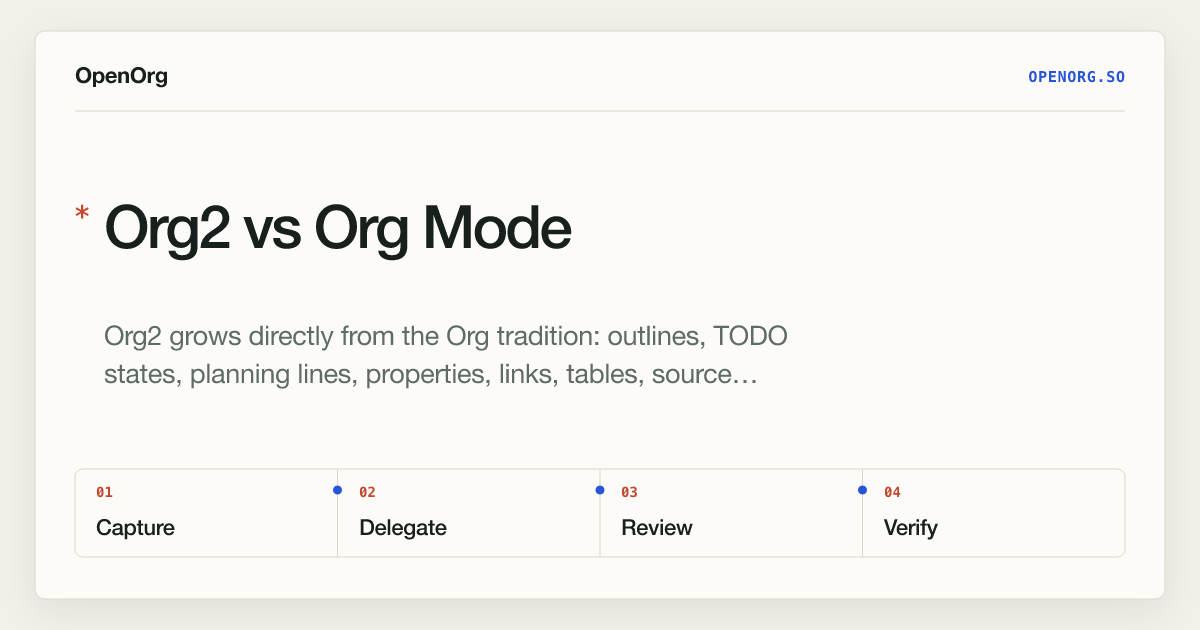
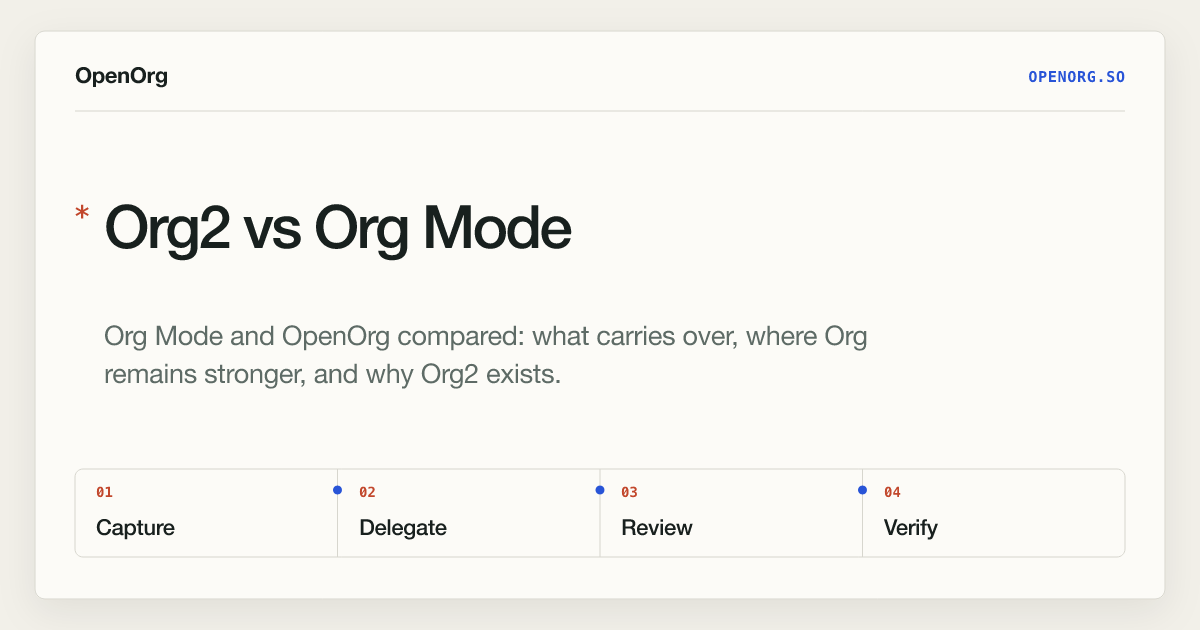
Rewrite Org Mode comparison for current OpenOrg

Changed region(s): [[0.0925, 0.5127, 0.74, 0.6333]]

diff --git a/site/org2-vs-org-mode.html b/site/org2-vs-org-mode.html
@@ -4,30 +4,30 @@
 <meta charset="utf-8" />
 <meta name="viewport" content="width=device-width, initial-scale=1" />
 <title>Org2 vs Org Mode</title>
+<meta name="description" content="Org Mode and OpenOrg compared: what carries over, where Org remains stronger, and why Org2 exists." />
 <link rel="icon" type="image/png" href="assets/favicon.png" />
 <link rel="apple-touch-icon" href="assets/apple-touch-icon.png" />
 <script type="module" src="assets/shiki-vscode.js"></script>
 <script defer src="assets/nav.js"></script>
-<meta name="description" content="Org2 grows directly from the Org tradition: outlines, TODO states, planning lines, properties, links, tables, source blocks, agendas, and publishing all belong in readable files. Org Mode remains…" />
 <link rel="canonical" href="https://openorg.so/org2-vs-org-mode.html" />
 <meta property="og:type" content="website" />
 <meta property="og:site_name" content="OpenOrg" />
 <meta property="og:locale" content="en_US" />
 <meta property="og:title" content="Org2 vs Org Mode" />
-<meta property="og:description" content="Org2 grows directly from the Org tradition: outlines, TODO states, planning lines, properties, links, tables, source blocks, agendas, and publishing all belong in readable files. Org Mode remains…" />
+<meta property="og:description" content="Org Mode and OpenOrg compared: what carries over, where Org remains stronger, and why Org2 exists." />
 <meta property="og:url" content="https://openorg.so/org2-vs-org-mode.html" />
 <meta property="og:image" content="https://openorg.so/assets/og/org2-vs-org-mode.png" />
 <meta property="og:image:secure_url" content="https://openorg.so/assets/og/org2-vs-org-mode.png" />
 <meta property="og:image:type" content="image/png" />
 <meta property="og:image:width" content="1200" />
 <meta property="og:image:height" content="630" />
-<meta property="og:image:alt" content="Org2 vs Org Mode — Org2 grows directly from the Org tradition: outlines, TODO states, planning lines, properties, links, tables, source blocks, agendas, and publishing all belong in readable files. Org Mode remains…" />
+<meta property="og:image:alt" content="Org2 vs Org Mode — Org Mode and OpenOrg compared: what carries over, where Org remains stronger, and why Org2 exists." />
 <meta name="twitter:card" content="summary_large_image" />
 <meta name="twitter:title" content="Org2 vs Org Mode" />
-<meta name="twitter:description" content="Org2 grows directly from the Org tradition: outlines, TODO states, planning lines, properties, links, tables, source blocks, agendas, and publishing all belong in readable files. Org Mode remains…" />
+<meta name="twitter:description" content="Org Mode and OpenOrg compared: what carries over, where Org remains stronger, and why Org2 exists." />
 <meta name="twitter:url" content="https://openorg.so/org2-vs-org-mode.html" />
 <meta name="twitter:image" content="https://openorg.so/assets/og/org2-vs-org-mode.png" />
-<meta name="twitter:image:alt" content="Org2 vs Org Mode — Org2 grows directly from the Org tradition: outlines, TODO states, planning lines, properties, links, tables, source blocks, agendas, and publishing all belong in readable files. Org Mode remains…" />
+<meta name="twitter:image:alt" content="Org2 vs Org Mode — Org Mode and OpenOrg compared: what carries over, where Org remains stronger, and why Org2 exists." />
 <link rel="stylesheet" href="assets/site.css" />
 <style>
 :root { color-scheme: light dark; }
@@ -64,97 +64,92 @@ a { text-decoration-thickness: 0.08em; text-underline-offset: 0.15em; }
 <header class="org2-document-header">
 <h1 class="org2-document-title">Org2 vs Org Mode</h1>
 </header>
-<p>Org2 grows directly from the Org tradition: outlines, TODO states, planning lines, properties, links, tables, source blocks, agendas, and publishing all belong in readable files. Org Mode remains the reference implementation and the deepest environment for that style of work.</p>
-<p>Org2 carries those ideas into a standalone compiler/runtime and builds native workspace, data, and agent-review surfaces around the shared semantics.</p>
+<p>The short version: if you want the best Org experience inside Emacs, use Org Mode. OpenOrg is for a different constraint: keeping much of Org's useful structure in ordinary files while using a native Mac app, VS Code, a standalone CLI, or other non-Emacs tools.</p>
+<p>Two names matter here. <strong>OpenOrg</strong> is the application. <strong>Org2</strong> is the open file format, parser, and runtime underneath it. Org2 is not a fork of Org Mode and does not claim complete Org compatibility. It is a smaller, deliberately specified interpretation of Org-shaped text.</p>
 <section class="org2-headline level-1">
 <h1 id="at-a-glance">At a glance</h1>
 <table>
+<thead>
+<tr><th>Question</th><th>Org Mode</th><th>OpenOrg + Org2</th></tr>
+</thead>
 <tbody>
-<tr><td>Concern</td><td>Org Mode</td><td>Org2</td></tr>
-<tr><td>---</td><td>---</td><td>---</td></tr>
-<tr><td>Natural home</td><td>GNU Emacs</td><td>Mac Workspace, VS Code, CLI, and other runtime clients</td></tr>
-<tr><td>Runtime</td><td>Emacs Lisp, buffers, and Emacs batch mode</td><td>TypeScript parser/compiler, standalone CLI, JSON artifacts, and optional LSP</td></tr>
-<tr><td>Files</td><td>Native <code>.org</code></td><td>Reads <code>.org</code> and recommends <code>.org2</code> for new work</td></tr>
-<tr><td>Planning</td><td>Exceptionally deep agenda, TODO, clock, habit, repeater, and customization support</td><td>Shared core planning model with agenda UI/TUI, queries, edits, runs, and approvals</td></tr>
-<tr><td>Literate work</td><td>Mature Babel language ecosystem and reproducible research workflows</td><td>Source blocks plus explicit data notebooks, DuckDB materialization, and chart rendering</td></tr>
-<tr><td>Publishing</td><td>Broad, extensible export backend ecosystem</td><td>Built-in HTML export and multi-file project publishing</td></tr>
-<tr><td>Automation</td><td>Emacs Lisp APIs and Emacs batch commands</td><td>CLI/JSON/compiler outputs, MCP, workflow packages, and client APIs</td></tr>
-<tr><td>Agent coordination</td><td>Available through Emacs packages and custom workflows</td><td>Cited context, durable runs, validation, approvals, and artifact provenance in the core project</td></tr>
-<tr><td>Maturity</td><td>Decades of use and a broad ecosystem</td><td>Early alpha with a deliberately smaller semantic standard</td></tr>
+<tr><td>What is it?</td><td>A major mode and extensive toolset for GNU Emacs</td><td>A native workspace built on a standalone parser, CLI, and file format</td></tr>
+<tr><td>Natural home</td><td>Emacs</td><td>OpenOrg for Mac, VS Code, the CLI, and lightweight iOS workflows</td></tr>
+<tr><td>Source files</td><td><code>.org</code></td><td>Reads <code>.org</code>; recommends <code>.org2</code> when Org2-specific behavior is used</td></tr>
+<tr><td>Editing</td><td>Deep structural editing, folding, capture, refile, tables, and keyboard workflows</td><td>Native rendered/source views and a VS Code extension; less editing depth than Org Mode</td></tr>
+<tr><td>Planning</td><td>Highly configurable TODOs, agendas, clocks, habits, repeaters, reports, and logs</td><td>Common TODO and planning semantics shared by the Mac app, VS Code, CLI, and agenda TUI</td></tr>
+<tr><td>Tables and code</td><td>Spreadsheet-like tables and the mature Babel ecosystem</td><td>Structured tables, preserved source blocks, SQL-backed data notes, and charts; not a Babel replacement</td></tr>
+<tr><td>Publishing</td><td>Many built-in and third-party export backends and publishing projects</td><td>HTML/site publishing and Beamer-compatible presentation export</td></tr>
+<tr><td>Automation</td><td>Emacs Lisp APIs and Emacs batch mode</td><td>Standalone commands, JSON output, LSP, MCP, and source-range-aware compiler output</td></tr>
+<tr><td>Maturity</td><td>Decades of use, documentation, packages, and hard-won edge-case handling</td><td>Early alpha; useful today, but still changing</td></tr>
 </tbody>
 </table>
 </section>
 <section class="org2-headline level-1">
-<h1 id="what-the-projects-share">What the projects share</h1>
-<p>Both projects treat plain text as a durable interface rather than an export format. A heading can be prose, a task, an addressable node, or part of a larger workflow. Dates, properties, links, tables, and source blocks remain visible to the person editing the file.</p>
-<p>Org2 also inherits several important habits from Org:</p>
-<ul>
-<li><p>capture quickly and organize later,</p></li>
-<li><p>derive agendas from tasks distributed across normal notes,</p></li>
-<li><p>keep publishing close to source,</p></li>
-<li><p>allow simple files to grow structure only when useful,</p></li>
-<li><p>preserve a raw-text escape hatch for every higher-level interface.</p></li>
-</ul>
+<h1 id="what-carries-over">What carries over</h1>
+<p>The family resemblance is intentional. Org2 supports familiar outlines, TODO keywords, priorities, tags, scheduled and deadline timestamps, repeaters, property drawers, IDs, links, lists, tables, source blocks, clocks, habits, and agenda files.</p>
+<p>The files remain the source of truth. There is no private note database that must be exported before another editor can read the work. Higher-level views are derived from the text.</p>
+<p>That does not mean every Org file has identical behavior in both systems. The common syntax travels well; Emacs Lisp configuration and the long tail of Org semantics do not.</p>
 </section>
 <section class="org2-headline level-1">
-<h1 id="where-org-mode-remains-deeper">Where Org Mode remains deeper</h1>
+<h1 id="where-org-mode-is-still-far-ahead">Where Org Mode is still far ahead</h1>
 <section class="org2-headline level-2">
-<h2 id="emacs-editing-and-customization">Emacs editing and customization</h2>
-<p>Org Mode's folding, structural editing, agenda commands, capture/refile system, tables, export dispatcher, and keyboard workflow have been refined for years. Emacs Lisp makes nearly every part of that environment programmable.</p>
-<p>Org2 does not reproduce that depth. Its native Mac editor is a focused workspace surface with source editing as the full-fidelity fallback; VS Code is the most complete general editor integration.</p>
+<h2 id="editing-and-customization">Editing and customization</h2>
+<p>Org Mode's editing model is the product of years of daily use: structural movement, folding, subtree operations, capture, refile, sparse trees, narrowing, table editing, links, and the agenda all fit together inside Emacs. Emacs Lisp makes the whole environment programmable.</p>
+<p>OpenOrg does not reproduce that environment. Its Mac app is designed around files, agenda, meetings, search, data, and review. It includes rendered and source editing, but Org Mode remains the more powerful text editor. VS Code is currently Org2's strongest general source-editing client.</p>
 </section>
 <section class="org2-headline level-2">
-<h2 id="planning-breadth">Planning breadth</h2>
-<p>Org2 supports practical TODO states, dates, repeaters, habits, effort, clocking, filters, and planning mutations. Org Mode still offers far more configuration, reporting depth, log behavior, column views, custom agenda composition, and accumulated edge-case handling.</p>
+<h2 id="planning">Planning</h2>
+<p>Org2 covers the planning features needed by ordinary agendas: TODO state, schedules, deadlines, priorities, tags, effort, repeaters, habits, clocks, filters, and mutations. Org Mode goes much further. Custom agenda commands, logging rules, column views, clock reports, dependency rules, capture templates, and user-defined TODO workflows are substantially deeper and more configurable.</p>
 </section>
 <section class="org2-headline level-2">
-<h2 id="babel-and-exports">Babel and exports</h2>
-<p>Org Babel supports a large language ecosystem for literate programming and reproducible research. Org's export system covers many built-in and third-party targets. Org2 currently concentrates on executable blocks used by its workflows, data notebooks, deterministic charts, HTML export, and project publishing.</p>
+<h2 id="tables-babel-and-export">Tables, Babel, and export</h2>
+<p>Org tables can behave like a small spreadsheet, complete with formulas and a polished editor. Babel supports a large language ecosystem for literate programming and reproducible research. Org's exporter ships with several backends and has many more in packages.</p>
+<p>Org2 parses tables and source blocks, but its execution story is narrower. Today it focuses on explicit SQL/data blocks, materialized results, deterministic charts, HTML publishing, and presentation export. A serious Babel setup should stay in Org Mode.</p>
 </section>
 <section class="org2-headline level-2">
 <h2 id="ecosystem-and-stability">Ecosystem and stability</h2>
-<p>Org Mode has a mature package ecosystem, extensive documentation, and well-understood long-term behavior. Org2's APIs and standard are still evolving.</p>
+<p>Org Mode has a large community, a mature package ecosystem, and behavior that people have relied on for years. Org2 is an early-alpha project. Its format and core invariants are documented, but APIs and client UX are still evolving.</p>
 </section>
 </section>
 <section class="org2-headline level-1">
-<h1 id="the-path-org2-is-exploring">The path Org2 is exploring</h1>
-<section class="org2-headline level-2">
-<h2 id="a-standalone-runtime-below-every-client">A standalone runtime below every client</h2>
-<p>The Org2 parser and compiler run without Emacs or a GUI application. They expose source ranges, agenda results, graph data, diagnostics, cited context, publishing output, and durable workflow records through the CLI and structured data.</p>
-<p>Native and editor clients are expected to use that layer rather than develop private interpretations of the language. This gives a Mac app, VS Code, CI job, script, and agent the same semantic boundary.</p>
-<p>Org Mode can also run in batch mode and offers rich APIs. Org2 makes standalone, language-neutral consumption the default packaging model.</p>
-</section>
-<section class="org2-headline level-2">
-<h2 id="native-workspace-surfaces">Native workspace surfaces</h2>
-<p>The Mac app combines agenda planning, files and knowledge navigation, rendered reading, source editing, meetings, OpenClaw chat, data notebooks, interactive charts, and <strong>Agent Work</strong>. These surfaces still write ordinary files and call the shared runtime.</p>
-<p>The HTML-capable app is especially useful for rich data presentation. Chart interaction and rendered reports can be more elaborate than would be ergonomic in a traditional text buffer, while their declarations and materialized evidence remain plain text.</p>
-</section>
-<section class="org2-headline level-2">
-<h2 id="agent-work-with-explicit-control-points">Agent work with explicit control points</h2>
-<p>Org2 treats cited context, durable runs, outputs, validation, clarification, approval, and reusable workflows as part of the project. The current OpenClaw plugin records substantial agent work in the <strong>Runs</strong> tab, and the Mac app exposes the review loop.</p>
-<p>This does not make agent use mandatory. Deterministic parsing, planning, graph, lint, data, and publishing capabilities work independently of any AI provider.</p>
-</section>
-<section class="org2-headline level-2">
-<h2 id="a-smaller-standard">A smaller standard</h2>
-<p>Org2 aims for a clear portable interpretation of the most useful Org-shaped semantics. It does not promise bug-for-bug compatibility with every Emacs configuration or historical edge case.</p>
-<p>That narrower scope makes independent clients easier to build, at the cost of incomplete compatibility with the full Org ecosystem.</p>
-</section>
+<h1 id="why-build-org2-at-all">Why build Org2 at all?</h1>
+<p>Emacs already has batch mode and excellent APIs, so Org2 is not based on the idea that Org cannot be automated. The difference is packaging and scope.</p>
+<p>Org2 makes a standalone, language-neutral runtime the default contract. A program can ask for an agenda, resolved links, diagnostics, search results, source ranges, or a published site without embedding Emacs or scraping an editor buffer. The Mac app, VS Code extension, scripts, and agents all consume that same runtime rather than inventing separate parsers.</p>
+<p>That foundation lets OpenOrg provide a few things that are outside Org Mode's main job:</p>
+<ul>
+<li><p>a native Mac workspace for files, agenda, meetings, data notes, and search,</p></li>
+<li><p>an iOS companion for capture, agenda, file viewing, and approvals,</p></li>
+<li><p>explicit local imports from configured sources such as Slack and Notion,</p></li>
+<li><p>cited agent conversations and durable work records with outputs, validation, and approval steps,</p></li>
+<li><p>preview-first command-line mutations that can be reviewed before they touch a file.</p></li>
+</ul>
+<p>None of that requires AI. Parsing, agenda, links, graph checks, data materialization, linting, and publishing work without a model or API key.</p>
 </section>
 <section class="org2-headline level-1">
 <h1 id="compatibility-in-practice">Compatibility in practice</h1>
 <ul>
-<li><p>Existing <code>.org</code> files are supported as normal compiler input.</p></li>
-<li><p><code>.org2</code> is recommended for new files when the workspace depends on Org2-specific behavior.</p></li>
-<li><p>Common headings, TODOs, planning lines, properties, tags, links, blocks, lists, tables, and timestamps should feel familiar.</p></li>
-<li><p>Complex Babel setups, custom Emacs Lisp, specialized export backends, and highly customized agenda behavior should remain in Org Mode unless their Org2 behavior has been verified.</p></li>
-<li><p>Raw source remains authoritative, so the same corpus can be inspected or edited with Emacs even when an Org2 client supplies the workflow surface.</p></li>
+<li><p>Existing <code>.org</code> files are normal Org2 compiler input.</p></li>
+<li><p><code>.org2</code> is useful when a workspace relies on Org2-specific blocks, metadata, or tooling. Emacs can open those files in <code>org-mode</code> with a simple file association.</p></li>
+<li><p>Common headings, TODOs, planning lines, properties, tags, links, blocks, lists, tables, and timestamps should be unsurprising in either editor.</p></li>
+<li><p>Org2-specific declarations remain readable text in Emacs, but Emacs does not automatically give them Org2 behavior.</p></li>
+<li><p>Custom Emacs Lisp, complex Babel graphs, specialized export backends, and heavily customized agenda rules do not port merely because the underlying file parses.</p></li>
+<li><p>Org2 favors one coherent interpretation across its clients over bug-for-bug compatibility with every Org version and configuration.</p></li>
 </ul>
+<p>The practical rule is simple: test a real corpus before depending on both runtimes for the same behavior. Keep advanced Org workflows in Org Mode unless Org2 explicitly documents support for them.</p>
 </section>
 <section class="org2-headline level-1">
-<h1 id="a-practical-choice">A practical choice</h1>
-<p>Org Mode is the natural choice for people who want the deepest Org experience and are comfortable making Emacs the runtime for editing, planning, literate programming, and automation.</p>
-<p>Org2 is useful when Org-shaped files need a standalone open-source runtime, native non-Emacs clients, rich data presentation, or a built-in run-and-approval workflow for agents.</p>
-<p>Using both is reasonable: Org Mode can remain a full-fidelity editor while Org2 compiles the same ordinary files into shared views and automation, within the documented compatibility boundary.</p>
+<h1 id="should-an-org-user-switch">Should an Org user switch?</h1>
+<p>Not by default. If Org Mode already fits your editing and planning life, there is no reason to leave it.</p>
+<p>OpenOrg is worth a look if you like Org's plain-text model but want:</p>
+<ul>
+<li><p>a native application for day-to-day workspace use,</p></li>
+<li><p>the same planning and link semantics available outside Emacs,</p></li>
+<li><p>a standalone CLI for scripts, CI, or other editors,</p></li>
+<li><p>local data and meeting workflows beside your notes,</p></li>
+<li><p>review and approval machinery for work delegated to agents.</p></li>
+</ul>
+<p>Using both is reasonable. Org Mode can remain the editor for <code>.org</code> and <code>.org2</code> files while Org2 supplies additional views and automation. Just treat the documented compatibility boundary as real rather than assuming that every Emacs customization has a portable equivalent.</p>
 </section>
 <section class="org2-headline level-1">
 <h1 id="related">Related</h1>
@@ -162,8 +157,10 @@ a { text-decoration-thickness: 0.08em; text-underline-offset: 0.15em; }
 <li><p><a href="https://orgmode.org/">Org Mode</a></p></li>
 <li><p><a href="https://orgmode.org/manual/">The Org Manual</a></p></li>
 <li><p><a href="https://orgmode.org/features.html">Org Mode features</a></p></li>
+<li><p><a href="editors-emacs.html">Using Org2 files from Emacs</a></p></li>
 <li><p><a href="migration.html">Migration guidance</a></p></li>
 <li><p><a href="semantics-status.html">Semantics and status</a></p></li>
+<li><p><a href="features.html">Current OpenOrg features</a></p></li>
 <li><p><a href="org2-vs-markdown.html">Org2 vs Markdown</a></p></li>
 <li><p><a href="org2-vs-obsidian.html">Org2 vs Obsidian</a></p></li>
 </ul>
